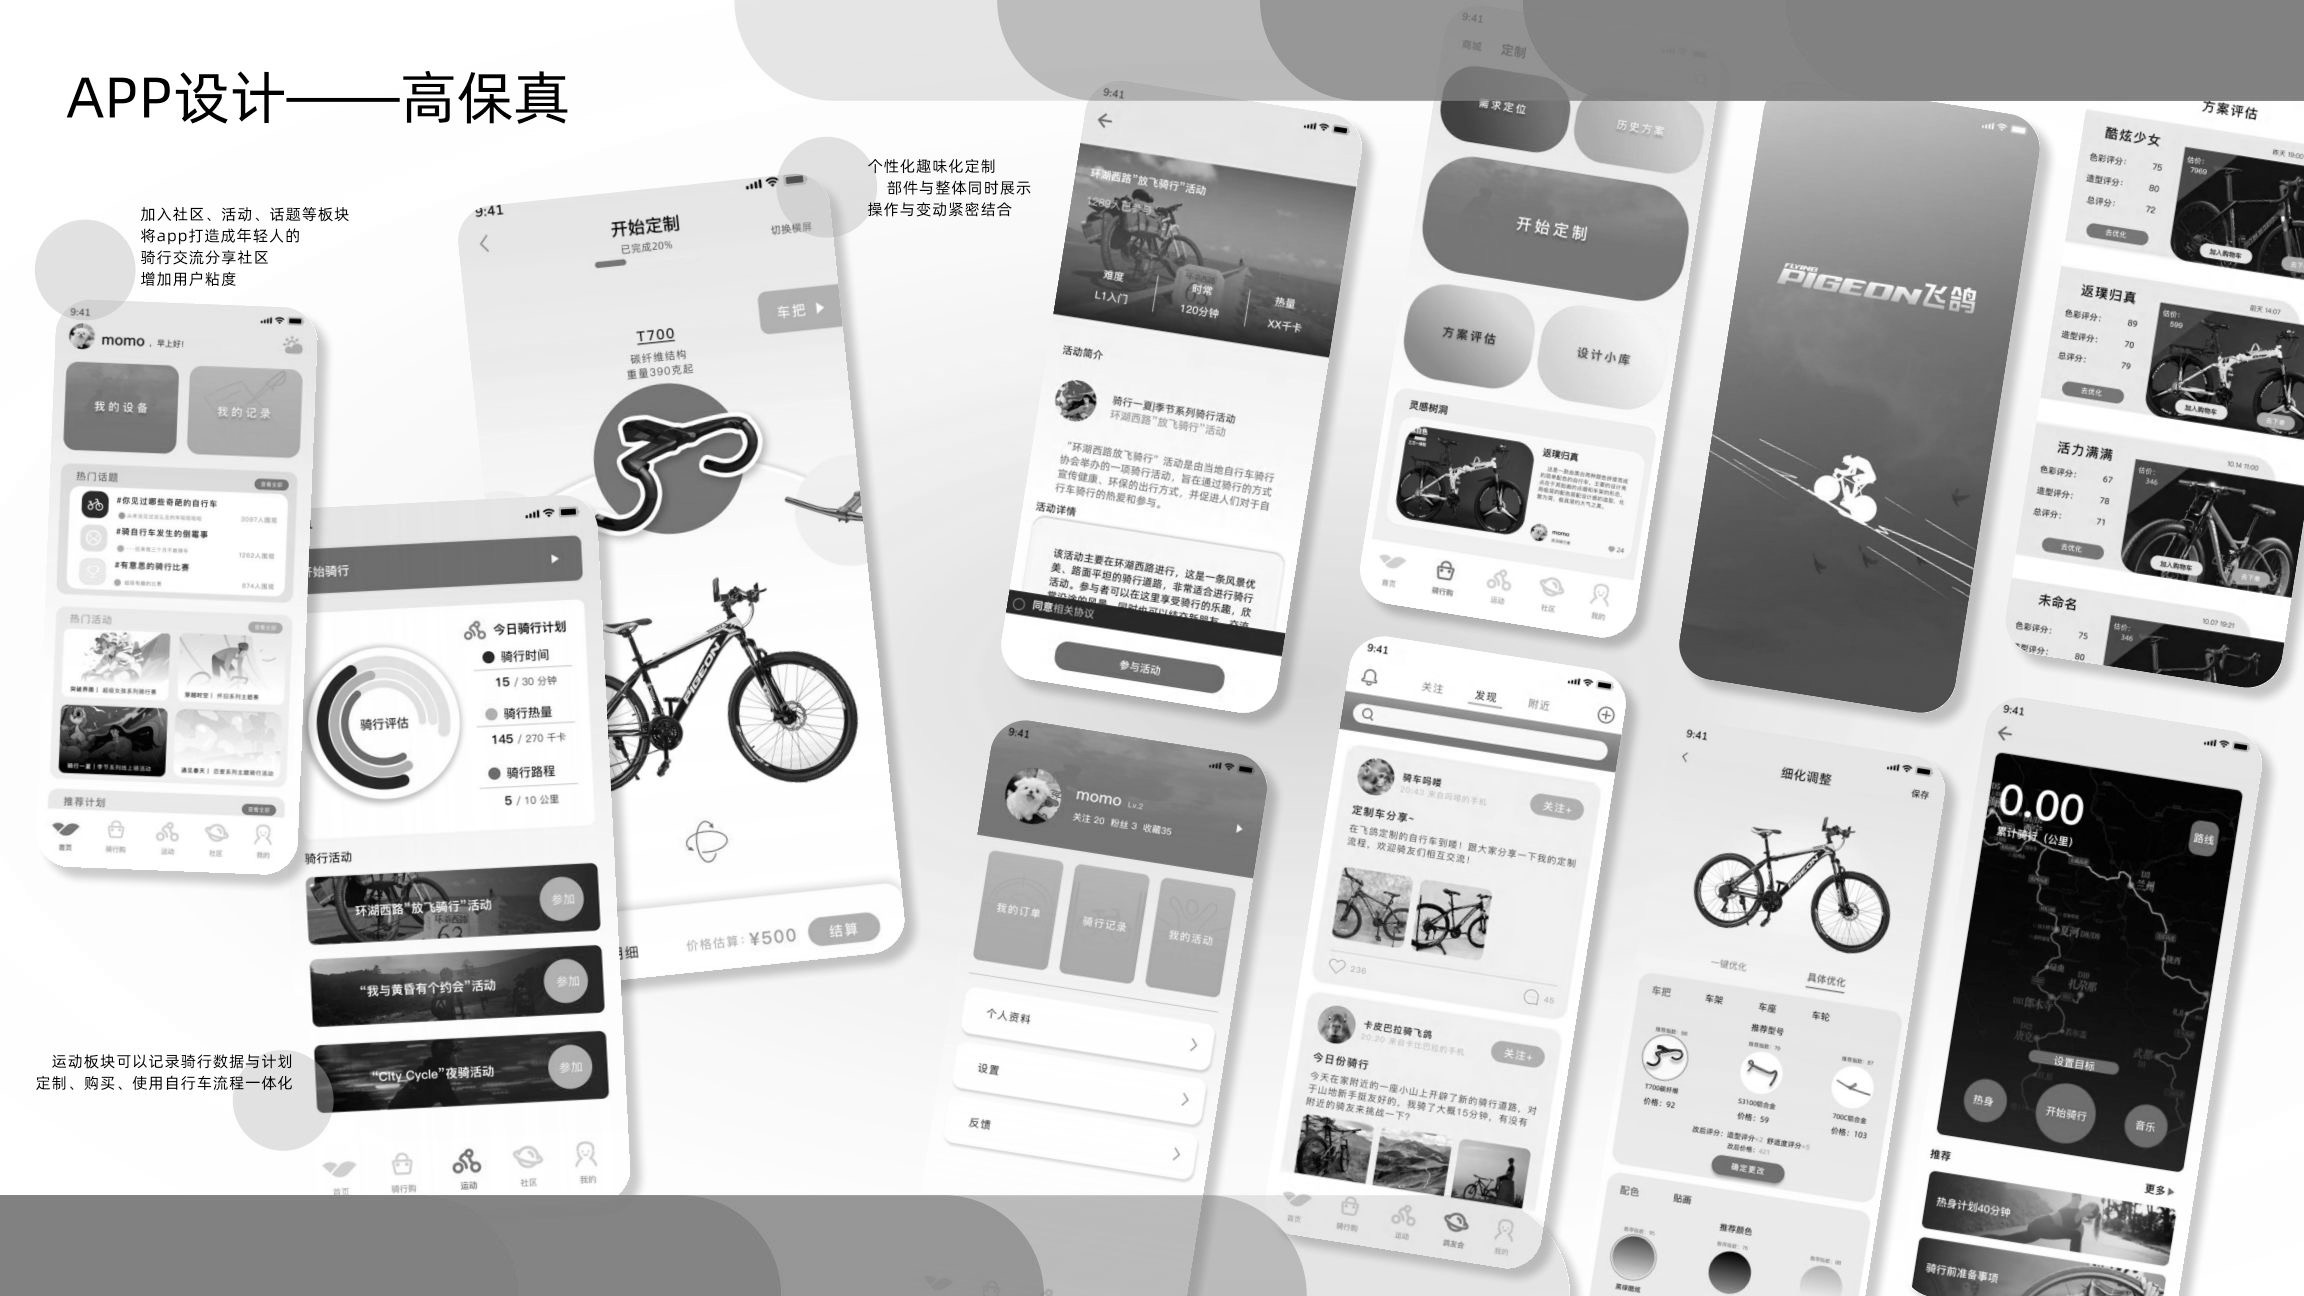
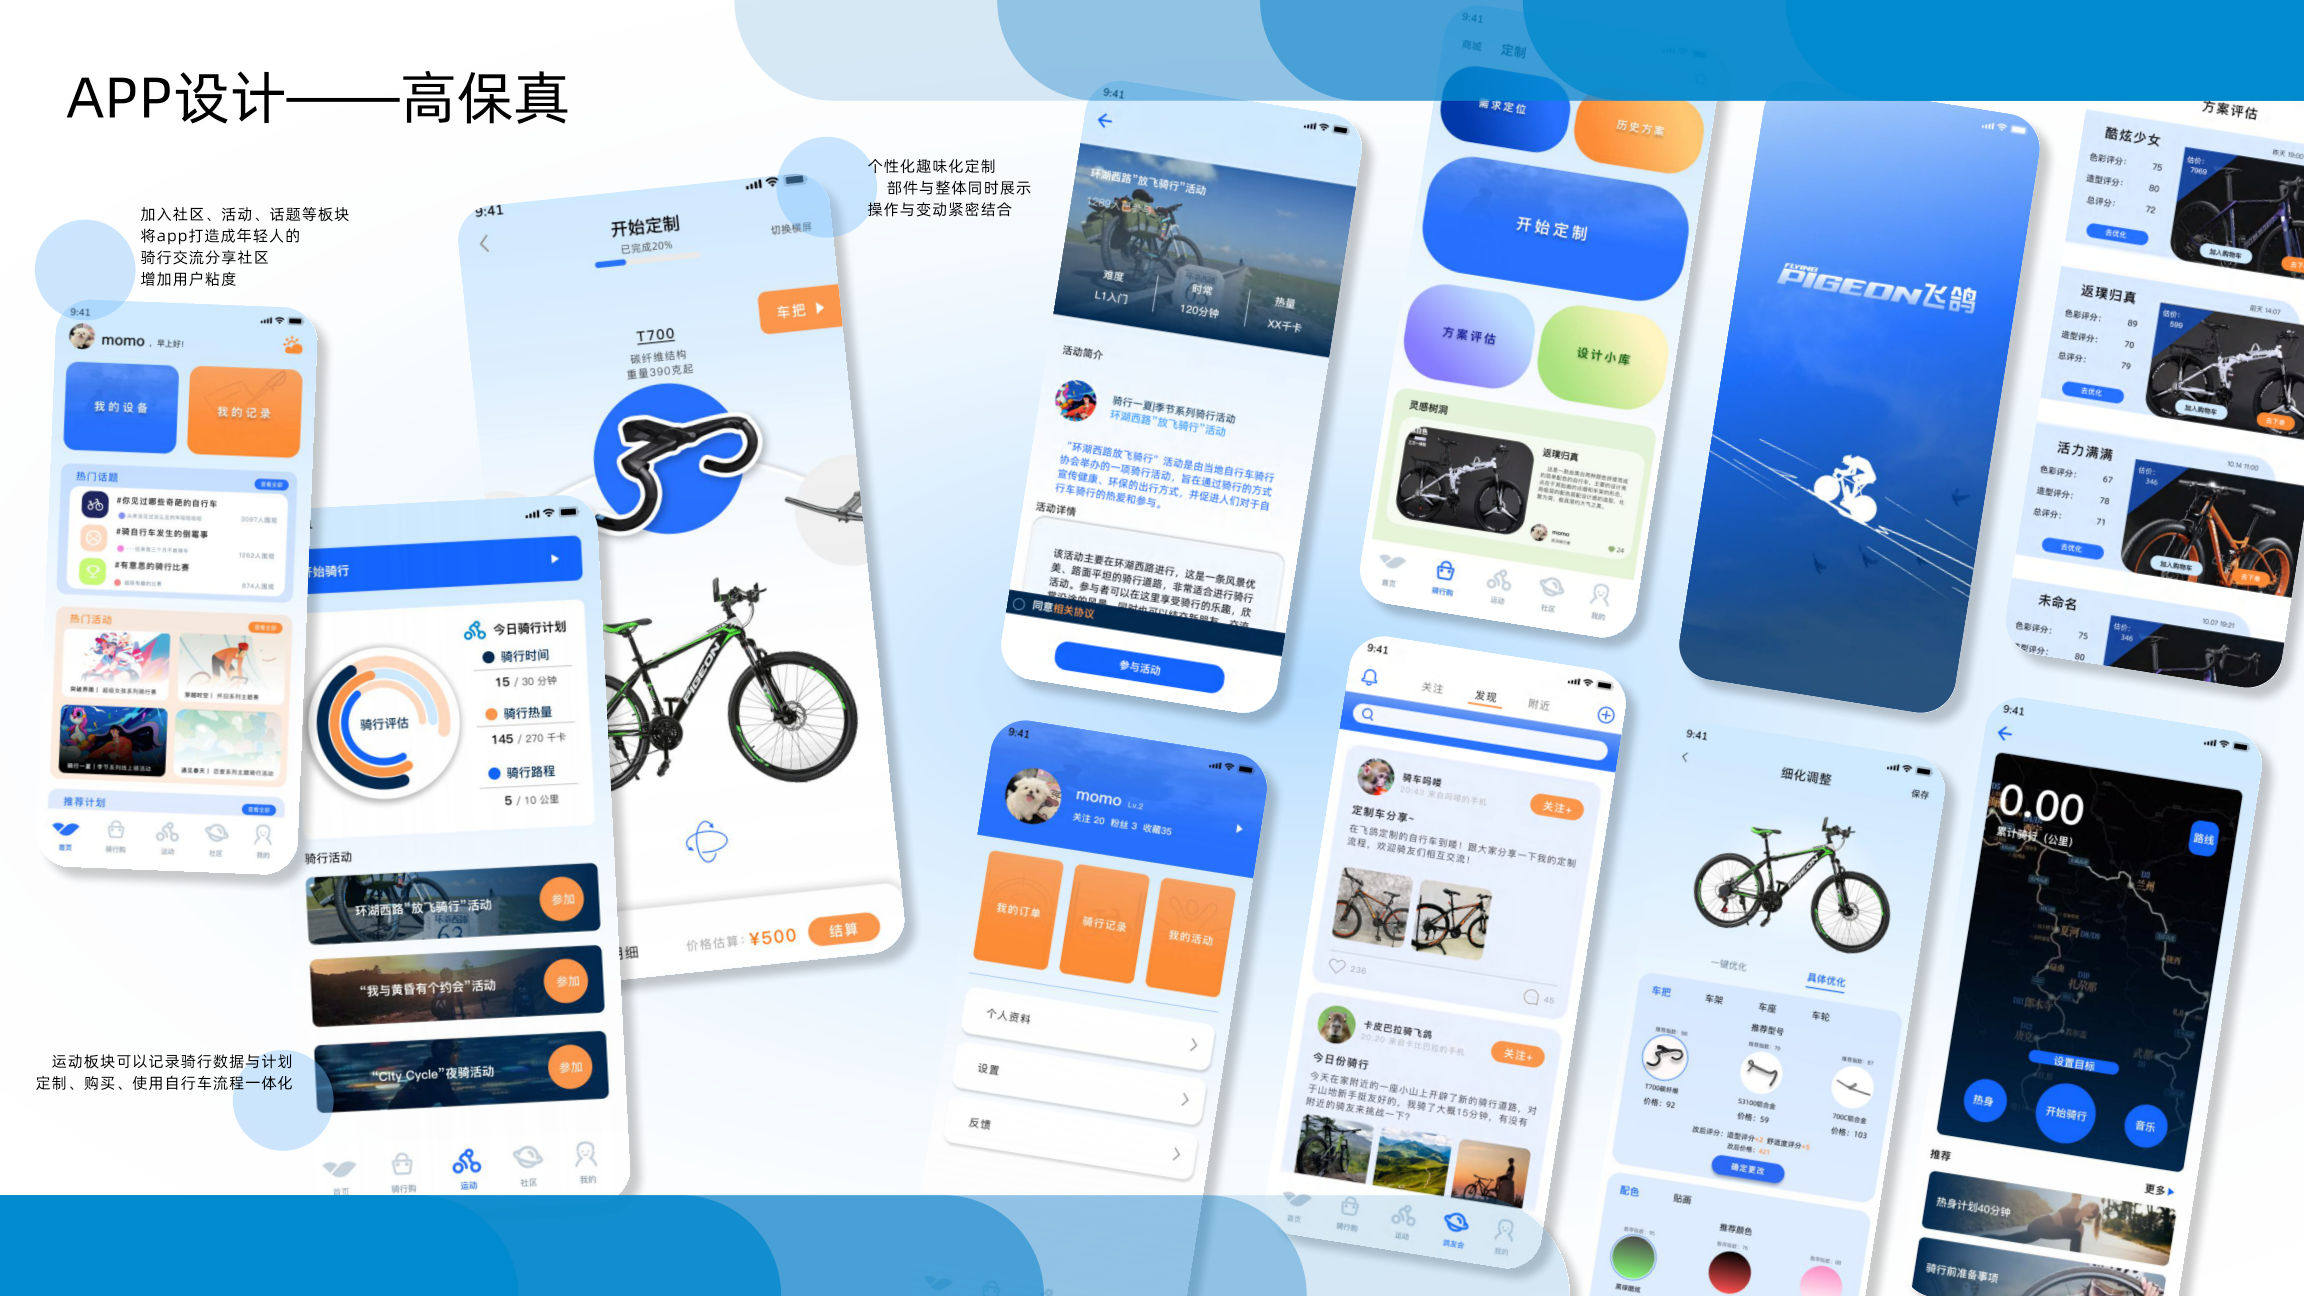
Restore color on Feige high-fidelity case slides.
The homepage splash stays grayscale; only the two App mockup pages were desaturated by mistake.

diff --git a/components/FeigeCase.tsx b/components/FeigeCase.tsx
@@ -218,13 +218,13 @@ export function FeigeCase() {
           </p>
         </div>
         <Slide
-          src="/works/feige/hifi.jpg?v=bw"
+          src="/works/feige/hifi.jpg?v=color"
           alt="飞鸽 App 高保真界面总览"
           caption="首页、商城/定制、运动、社区、我的。造车和开骑是核心屏。"
         />
         <div className="case-grid-2">
           <Slide
-            src="/works/feige/hifi-detail.jpg?v=bw"
+            src="/works/feige/hifi-detail.jpg?v=color"
             alt="飞鸽 App 高保真关键流程"
             caption="社区留存、骑行记录、部件级定制、方案评估。"
           />
